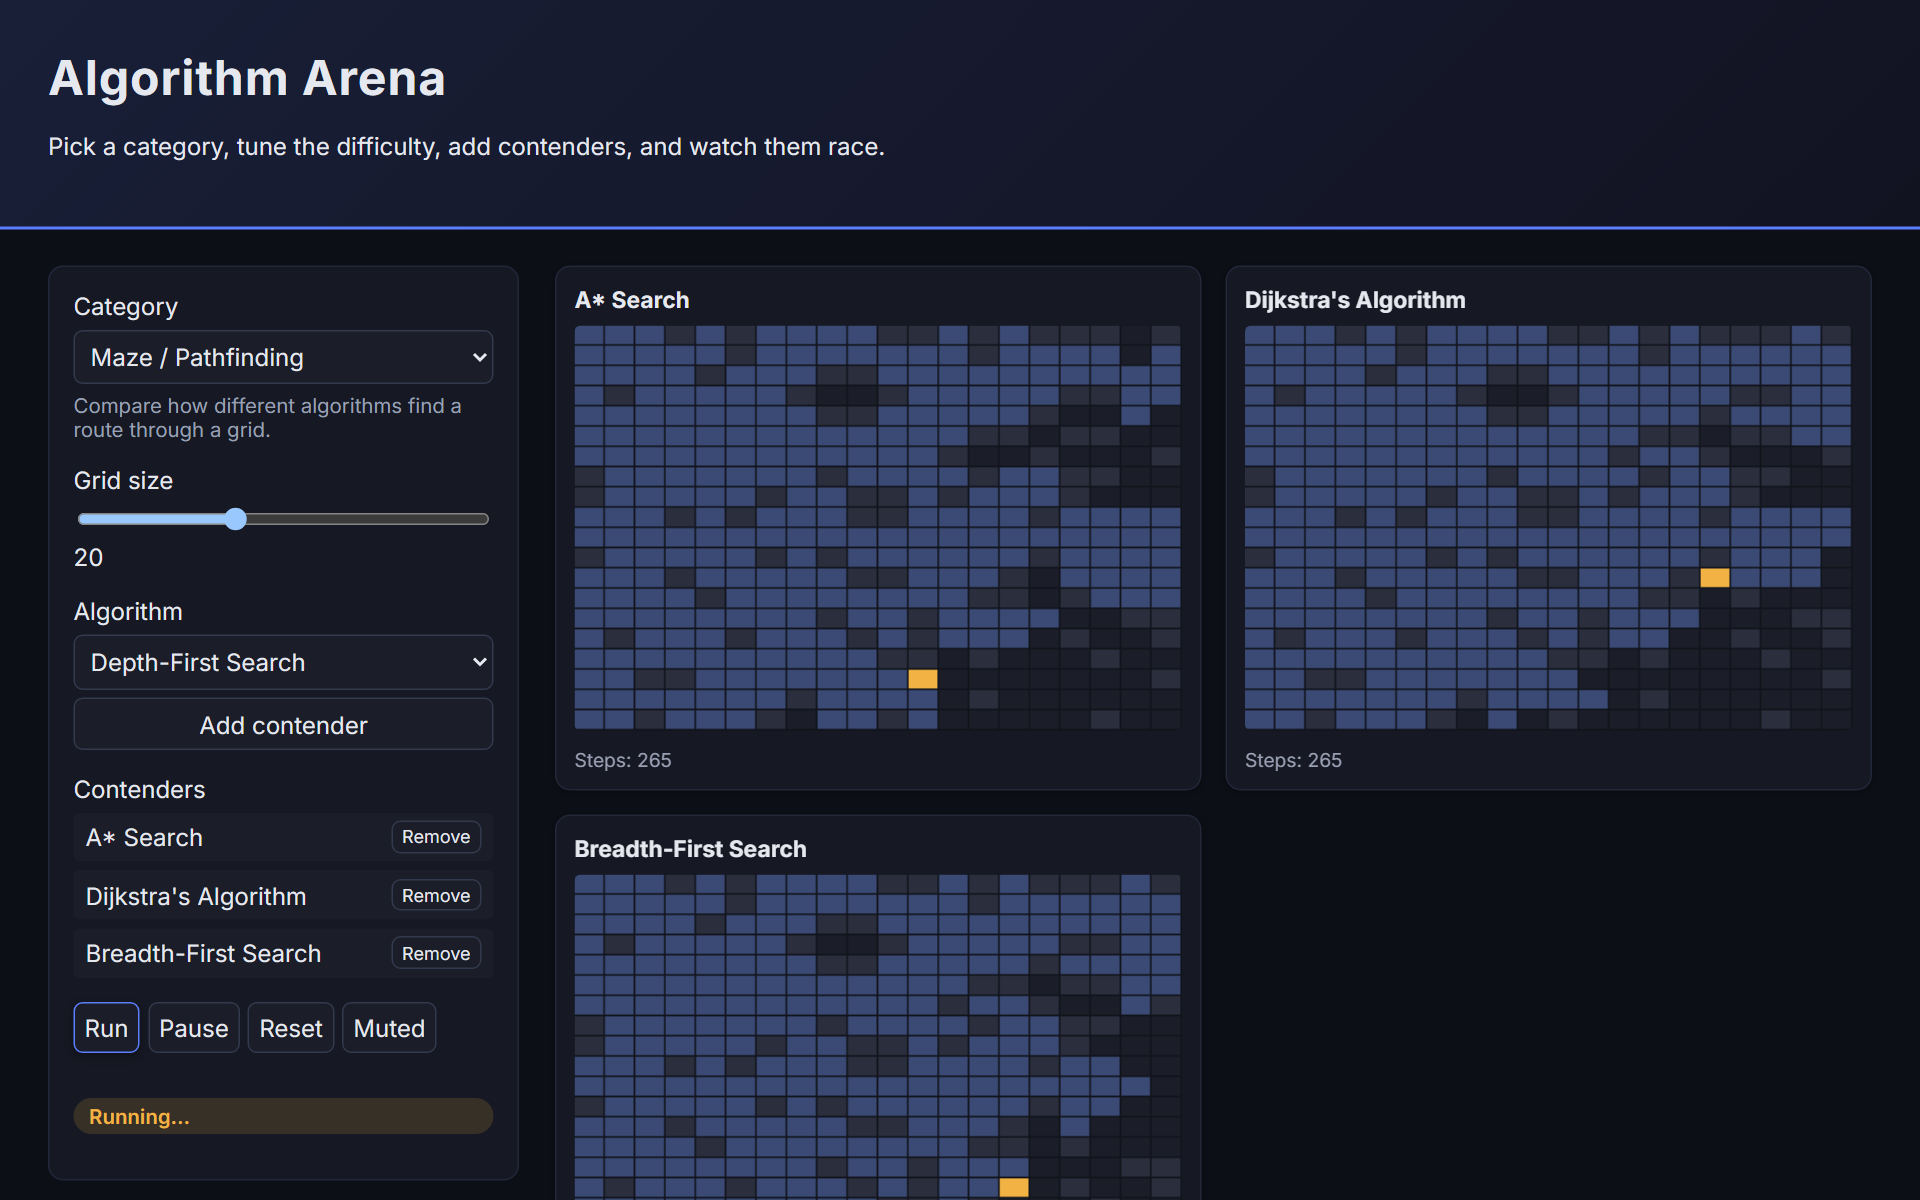
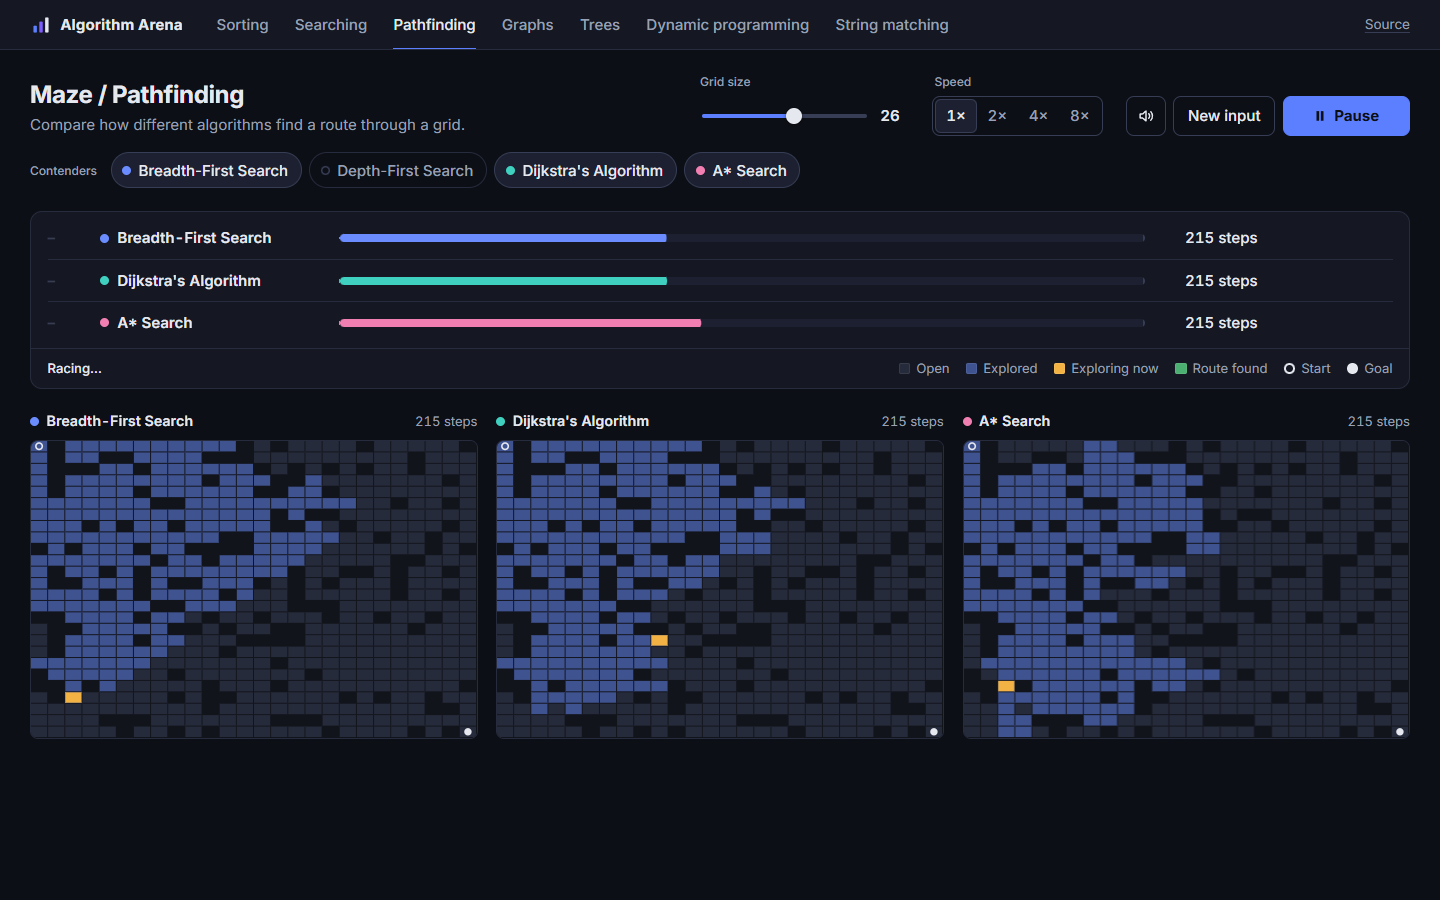
Show the scoreboard in the README

diff --git a/README.md b/README.md
@@ -9,7 +9,20 @@ category, choose how hard the underlying problem should be, add two or more
 algorithms as contenders, and watch them race against each other on the same
 problem instance.
 
-![A*, Dijkstra and breadth-first search racing through the same weighted maze](docs/screenshot.png)
+![Breadth-first search, Dijkstra and A* racing through the same weighted maze, with the scoreboard above](docs/screenshot.png)
+
+## How a race reads
+
+- **Scoreboard.** Each contender has a lane that fills as it works towards its
+  own finish line. The step count for every contender is worked out before the
+  race starts (`js/standings.js`), so the lanes show true progress, not a guess.
+- **Result.** Fewest steps wins. The scoreboard gives each finisher a place and
+  how far behind the winner it was, and sums the race up in one line, for
+  example "Depth-First Search wins in 156 steps, 48% fewer than Breadth-First Search (299)".
+- **Controls.** Pick a category from the tabs, toggle contenders on and off,
+  set the input size, and change the speed (1× to 8×) while the race runs.
+- **Links.** Each category has its own address, such as
+  [`#pathfinding`](https://nguyenhanhatminh0105-hue.github.io/Algorithm-Visualizer/#pathfinding).
 
 ## Categories
 
@@ -26,9 +39,9 @@ problem instance.
 - **String Matching** — Naive search vs. Knuth-Morris-Pratt finding the same
   pattern in the same text.
 
-Each category exposes a difficulty control (list size, grid size, node
-count, string length, and so on) that regenerates the underlying problem, and
-lets you add or remove any number of contenders before running the race.
+Each category has a size control (list size, grid size, node count, string
+length, and so on) that regenerates the underlying problem. Any two or more of
+its algorithms can race at once, always on the same input.
 
 ## Running locally
 
@@ -52,8 +65,10 @@ npm test
 server.js                 minimal static file server (no dependencies)
 public/index.html         page layout
 public/style.css          styling
-public/js/main.js         UI wiring: category, difficulty, contenders, run loop
+public/js/main.js         UI wiring: tabs, contenders, scoreboard, run loop
 public/js/engine.js       step-by-step playback engine shared by all categories
+public/js/standings.js    scoreboard maths: step counts, places, the result line
+public/js/reveal.js       the finish animation for each category
 public/js/categories.js   category definitions (algorithms, problem setup, rendering)
 public/js/render.js       canvas rendering for each visualization type
 public/js/algorithms/     algorithm implementations, grouped by category
